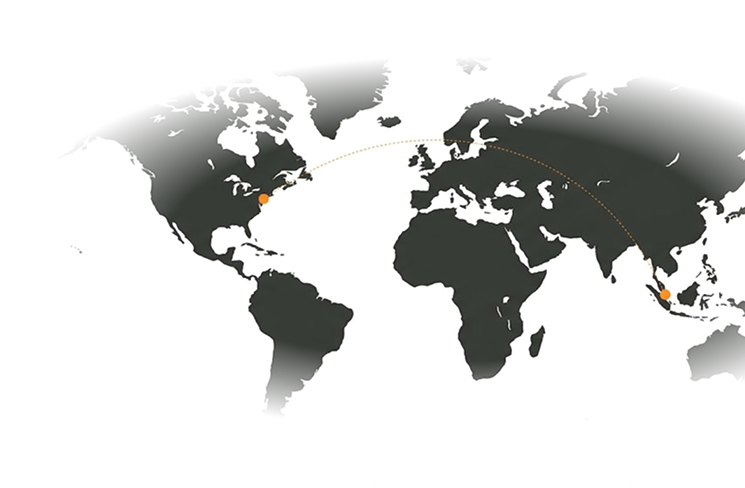
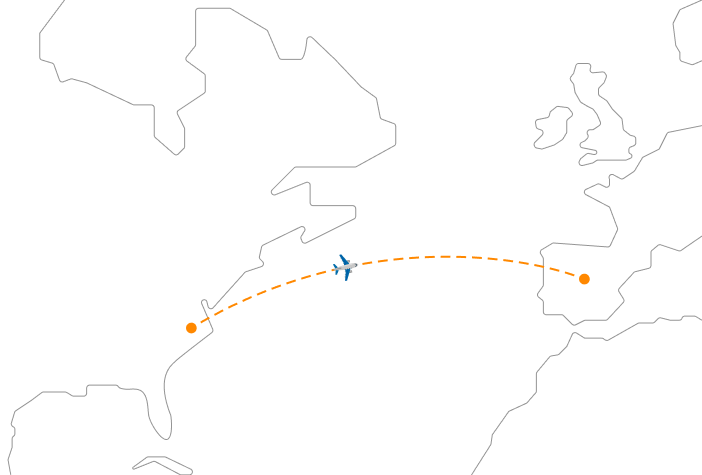
about & header

diff --git a/src/Pages/Home/_sections/Header/Header.module.css b/src/Pages/Home/_sections/Header/Header.module.css
@@ -1,7 +1,11 @@
 .container{
     padding: 40px 25px;
-    min-height: 95vh;
+    min-height: 100vh;
     position: relative;
+    background-image: url('../../../../assets/desktopWord.png');
+    background-repeat: no-repeat;
+    background-size: 130%;
+    background-position: bottom center;
 }
 
 .content{
@@ -61,11 +65,29 @@
     }
 }
 
+.floating_card{
+    background-color: var(--dark-color);
+    color: var(--gray-color);
+    position: absolute;
+    padding: 25px 30px 20px 20px;
+    border-radius: 20px;
+    bottom: 25%;
+    left: 50%;
+    transform: translateX(-50%);
+}
+.close{
+    position: absolute;
+    right: 16px;
+    top: 16px;
+}
+
 
 @media screen and (min-width: 768px) {
     .container{
         min-height: auto;
         padding: 40px 65px;
+        background-position: right;
+        background-size: 60%;
     }
     .content{
         max-width: 55%;
@@ -85,6 +107,20 @@
     .action_secondary{
         margin: 0;
     }
+
+    .floating_card{
+        top: 25%;
+        bottom: auto;
+        transform: none;
+        left: 60%;
+        font-size: 1.5em;
+    }
+    .review_data{
+        justify-content: start;
+    }
+    .field{
+        font-size: .75em;
+    }
 }
 
 @media screen and (min-width: 1024px){
@@ -92,8 +128,14 @@
         max-width: 1244px;
         margin: auto;
         padding: 90px;
+        background-size: 50%;
     }
     .content{
         max-width: 45%;;
+    }
+
+    .floating_card{
+        top: 20%;
+        left: 55%;
     }
 }

diff --git a/src/Pages/Home/_sections/About/About.tsx b/src/Pages/Home/_sections/About/About.tsx
@@ -1,0 +1,23 @@
+import React from 'react'
+import styles from './About.module.css'
+import MountainView from '../../../../assets/Montain_View.jpg'
+
+function About() {
+  return (
+    <section className={styles.container}>
+        <div className={styles.content}>
+            <div>
+                <h2 className={styles.section_title}>Travel isn't<br/>just about<br />the destination.</h2>
+            </div>
+            <div className={styles.texts}>
+                <p>At UniTour, we believe the best memories are made with family. We are a travel agency specializing in creating unique, safe, and personalized experiences for all ages.</p>
+                <p>We take care of every detail of your trip—from planning to selecting hotels and tours—offering support throughout the entire journey.</p>
+                <p>With a team passionate about travel, UniTour offers comprehensive packages, domestic and international destinations, and tailor-made itineraries to turn every trip into an unforgettable story.</p>
+            </div>
+        </div>
+        <img src={MountainView} alt='Mountain view' />
+    </section>
+  )
+}
+
+export default About

diff --git a/src/Pages/Home/_sections/About/About.module.css b/src/Pages/Home/_sections/About/About.module.css
@@ -1,0 +1,60 @@
+.container{
+    padding: 80px 0px;
+}
+
+.container img{
+    width: 100%;
+}
+
+.section_title{
+    font-size: 2.5em;
+    font-weight: 800;
+    margin-bottom: 32px;
+    text-transform: capitalize;
+}
+
+.content{
+    padding: 32px;
+}
+
+.texts{
+    display: flex;
+    flex-direction: column;
+    gap: 1.5em;
+    color: var(--gray-text);
+}
+
+@media screen and (min-width: 768px) {
+    .container img{
+        width: 100%;
+        height: 450px;
+        object-fit: cover;
+        object-position: center 70%;
+    }
+
+    .content{
+        display: flex;
+        gap: 1.5em;
+        align-items: center;
+        justify-content: center;
+    }
+
+    .section_title{
+        font-size: 4em;
+    }
+}
+
+@media screen and (min-width: 1024px){
+
+    .content{
+        gap: 4em;
+        max-width: 1480px;
+        margin: auto;
+    }
+    .section_title{
+        width: 100%;
+    }
+    .texts{
+        width: 45%;
+    }
+}

diff --git a/src/layout/Navbar/Navbar.tsx b/src/layout/Navbar/Navbar.tsx
@@ -20,12 +20,12 @@ function Navbar() {
     const tl = useRef<gsap.core.Timeline | null>(null)
 
     useGSAP(() => {
-        if (!menuRef.current) return
-
+        
         const mm = gsap.matchMedia()
-
+        
         mm.add("(max-width: 768px)", () => {
-
+            if (!menuRef.current) return
+            
             const items = gsap.utils.toArray<HTMLElement>(
                 menuRef.current.children
             )
@@ -75,7 +75,7 @@ function Navbar() {
 
   return (
     <nav className={styles.navbar}>
-        <a className={styles.logo} href='/'><span>Uni</span>Tour</a>
+        <a className={styles.logo} href='/' translate='no'><span>Uni</span>Tour</a>
 
         <button className={styles.menu_btn} onClick={toggleMenu}>{active ? <MdClose /> : <MdMenu/>}</button>
 

diff --git a/src/Pages/Home/_sections/Header/Header.tsx b/src/Pages/Home/_sections/Header/Header.tsx
@@ -31,6 +31,20 @@ function Header() {
         </div>
 
       </div>
+
+      <div className={styles.floating_card}>
+        <div className={styles.close}>
+          <MdClose />
+        </div>
+        <div>
+          <p className={styles.field}>Destination</p>
+          <p className='text_orange destaque'>Your Dream</p>
+        </div>
+        <div>
+          <p className={styles.field}>Departure</p>
+          <p className='text_orange destaque'>Now</p>
+        </div>
+      </div>
     </header>
   )
 }

diff --git a/src/layout/Navbar/Navbar.module.css b/src/layout/Navbar/Navbar.module.css
@@ -3,6 +3,7 @@
     position: relative;
     display: flex;
     justify-content: space-between;
+    z-index: 999;
 }
 
 .logo{
@@ -118,5 +119,9 @@
 @media screen and (min-width: 856px) {
     .app{
         display: block;
+    }
+    .navbar{
+        max-width: 1480px;
+        margin: auto;
     }
 }

diff --git a/src/Pages/Home/Home.tsx b/src/Pages/Home/Home.tsx
@@ -1,10 +1,12 @@
 import React from 'react'
 import Header from './_sections/Header/Header'
+import About from './_sections/About/About'
 
 function Home() {
   return (
     <div>
       <Header />
+      <About />
     </div>
   )
 }
